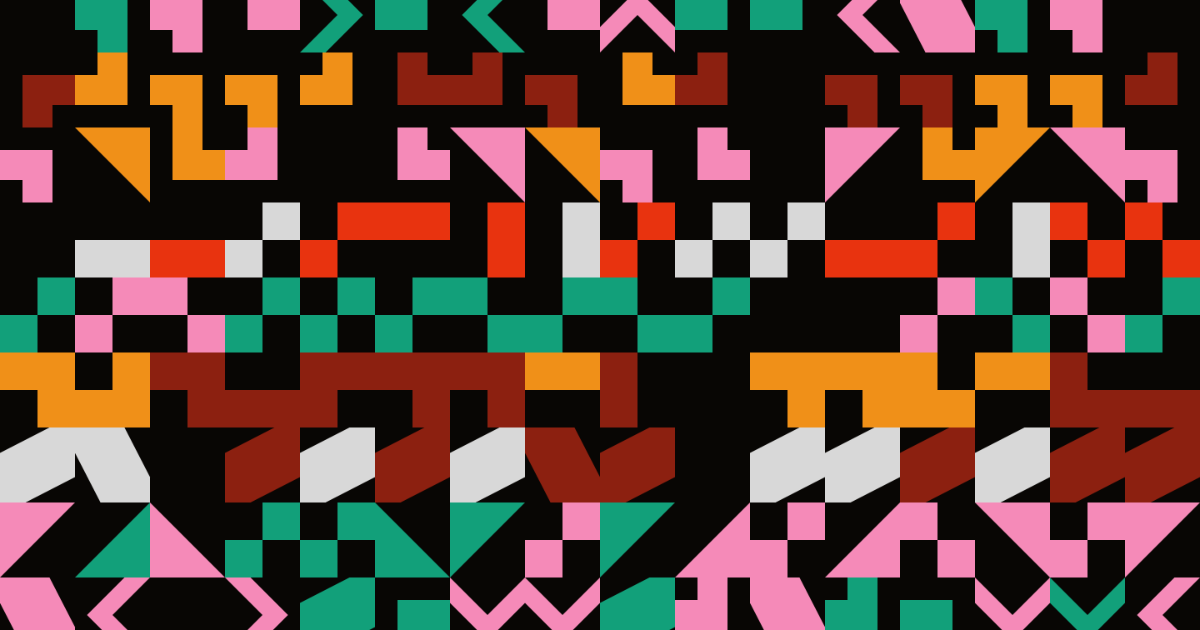
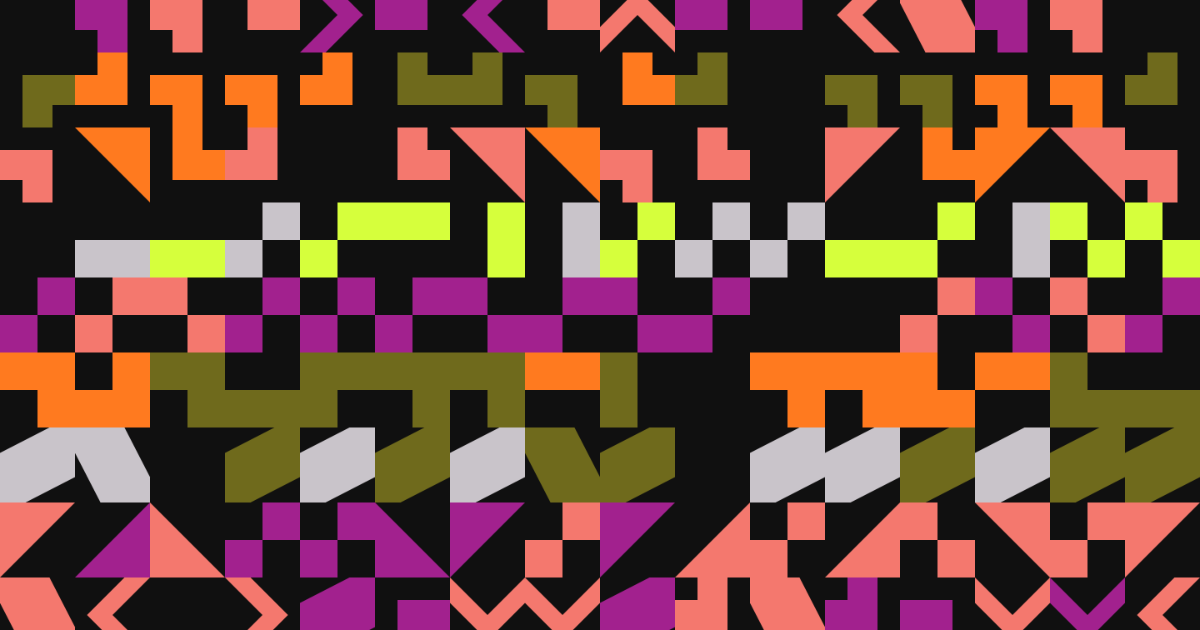
Sampler: a new default palette
Black, lime, olive, orange, salmon, pale grey and magenta replace the
red and teal set the tool opened with. The sharing card is re-rendered
to match.

Claude-Session: https://claude.ai/code/session_01Hb5jk9z6h4o1AzZNFzskh6

diff --git a/sampler/index.html b/sampler/index.html
@@ -686,7 +686,7 @@ const RATIOS=[{id:"9:16",w:9,h:16},{id:"3:4",w:3,h:4},{id:"4:5",w:4,h:5},{id:"1:
 const MODES=[["shuffle","Shuffle"],["turn","Turn"]];
 
 const PALETTES=[
-  ["#080604","#E8330F","#8C2010","#F09018","#F58AB8","#D8D8D8","#12A07A"],
+  ["#101010","#D6FF3C","#6F6A1C","#FF7A1F","#F4786E","#C9C4CA","#A2218E"],
   ["#060606","#E4402A","#7A1C14","#F5A21E","#FF8FC0","#E2E2E2","#1AA688"],
   ["#0A0A0C","#DF2C55","#6E1430","#F2B01C","#F58ACB","#DDDCD8","#1C8FA8"],
   ["#050505","#F04E1E","#8E2A12","#FFC02E","#FF9ED0","#E8E6E0","#22B0A0"],
